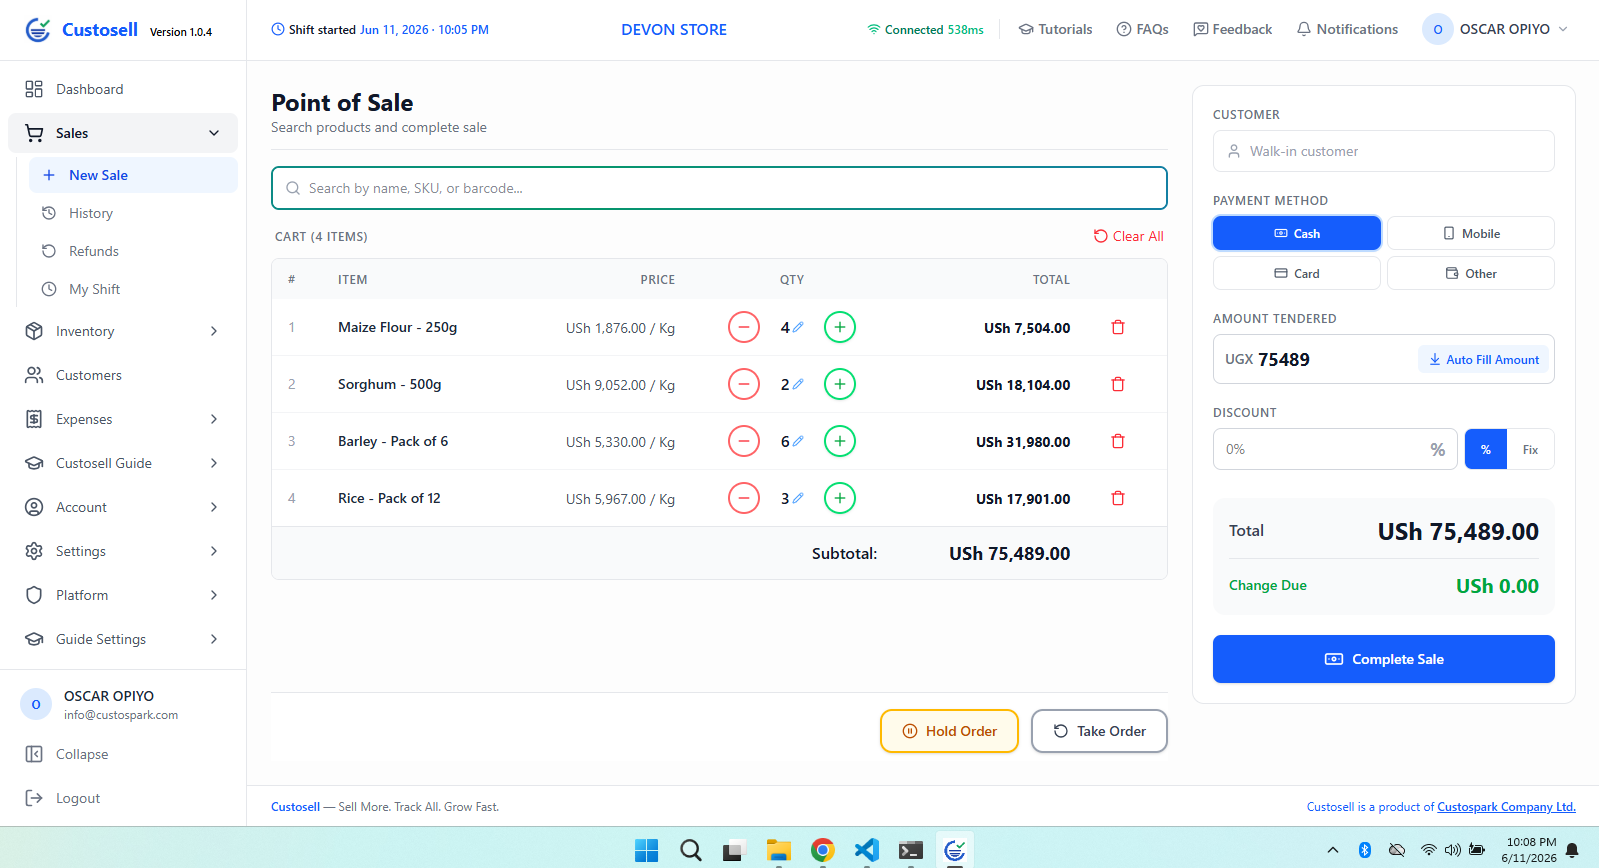
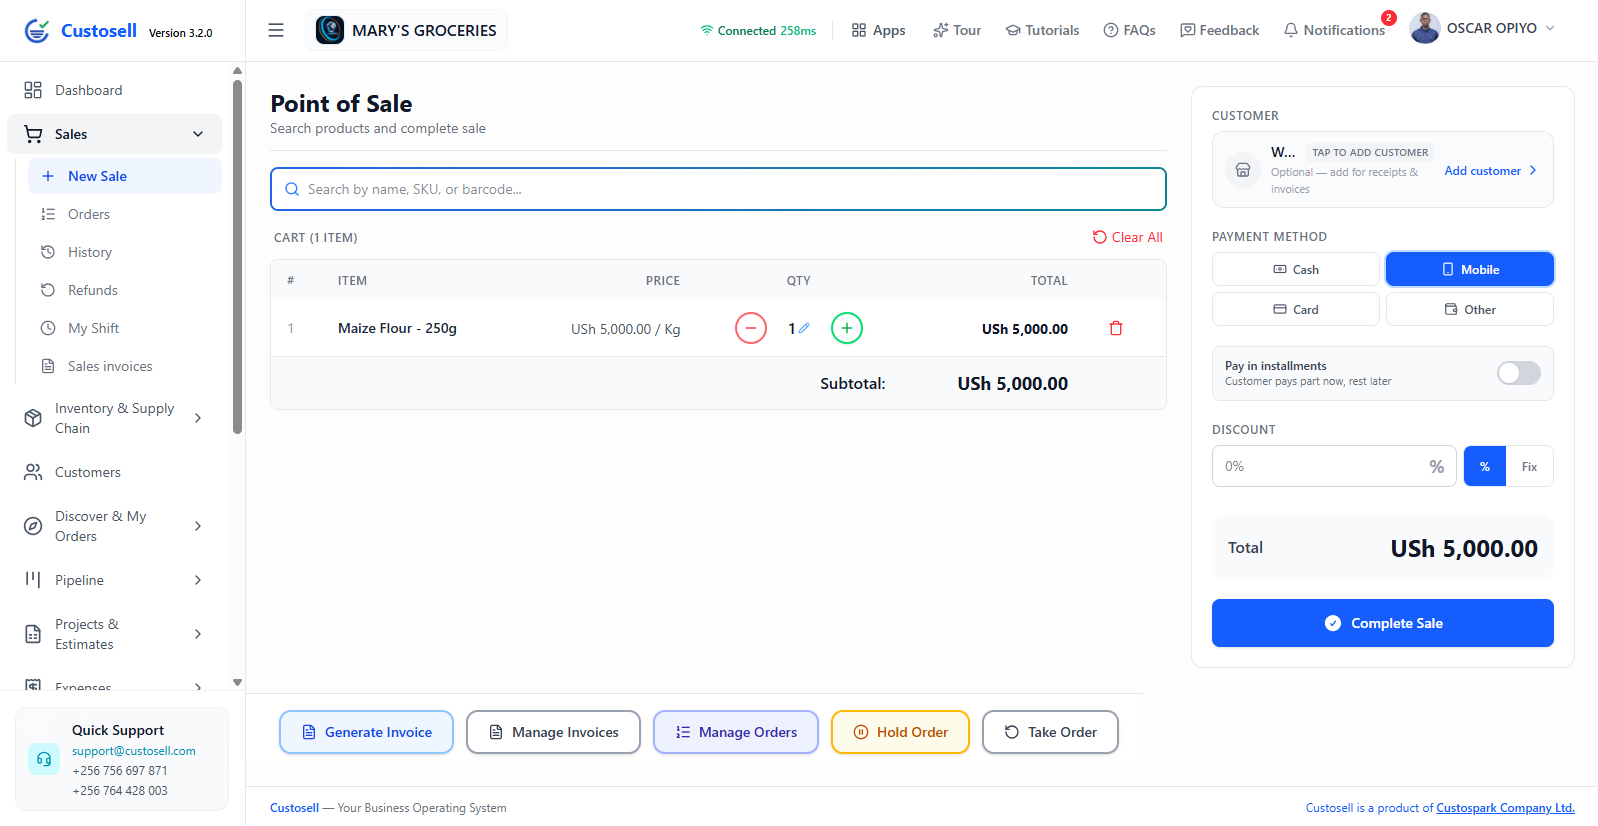
Expand Custosell description from 5 POS features to full 12-module Business OS with new screenshots

diff --git a/src/sections/CustosellProduct.tsx b/src/sections/CustosellProduct.tsx
@@ -1,42 +1,94 @@
 import { Button } from "@/components/Button";
-import { ArrowRight, Home, LayoutDashboard, Package, TrendingUp, Users } from "lucide-react";
+import {
+  ArrowRight, LayoutDashboard, ShoppingCart, Compass, Package, Kanban,
+  FileText, BookOpen, LineChart, IdCard, FolderKanban, Files, Users,
+} from "lucide-react";
 import custosellLogo from "../shared/images/custosell/custosell-logo.png";
 import homeImg from "../shared/images/custosell/custosell-home.png";
-import dashboardImg from "../shared/images/custosell/real_time_dashboard.png";
-import inventoryImg from "../shared/images/custosell/smart_inventory.png";
 import salesImg from "../shared/images/custosell/faster_sales.png";
+import storefrontImg from "../shared/images/custosell/storefront.png";
+import inventoryImg from "../shared/images/custosell/smart_inventory.png";
+import pipelineImg from "../shared/images/custosell/pipeline_crm.png";
+import invoicingImg from "../shared/images/custosell/invoicing.png";
+import accountingImg from "../shared/images/custosell/accounting.png";
+import forecastingImg from "../shared/images/custosell/forecasting.png";
+import hrImg from "../shared/images/custosell/hr_payroll.png";
+import projectsImg from "../shared/images/custosell/project_management.png";
+import documentsImg from "../shared/images/custosell/document_management.png";
 import customersImg from "../shared/images/custosell/customer_insights.png";
 
 const features = [
   {
     img: homeImg,
-    icon: Home,
+    icon: LayoutDashboard,
     title: "Your Business, One Screen Away",
     desc: "Sales, inventory, customers, and insights — all waiting the moment you log in. Custosell's home screen puts your daily snapshot front and center so you can sell more, track everything, and grow faster without digging through menus or waiting on reports.",
   },
   {
-    img: dashboardImg,
-    icon: LayoutDashboard,
-    title: "Real-time Dashboard",
-    desc: "See your entire business at a glance. Custosell's live dashboard lets you track sales, monitor trends, and make data-driven decisions in real-time. Know exactly how your business is performing, any time of day, from anywhere.",
+    img: salesImg,
+    icon: ShoppingCart,
+    title: "Point of Sale",
+    desc: "Process transactions in seconds — online or offline. Scan items, split bills, take multiple payment methods, and print receipts. Your shift data syncs automatically when you reconnect.",
+  },
+  {
+    img: storefrontImg,
+    icon: Compass,
+    title: "E-commerce Storefront",
+    desc: "Share a public shop link so customers browse your catalog, save wishlists, and place order requests — all while stock stays tied to your real-time inventory. Turn your physical store into an online storefront instantly.",
   },
   {
     img: inventoryImg,
     icon: Package,
-    title: "Smart Inventory",
-    desc: "Never run out of stock again. Custosell lets you track inventory in real-time, set low-stock alerts, and manage suppliers all from one place. Know what's moving, what's not, and exactly when to reorder — so you can keep your shelves full and your customers happy.",
+    title: "Inventory & Supply Chain",
+    desc: "Track stock in real time, set low-stock alerts, manage suppliers, create purchase orders, and source from other businesses through the built-in marketplace. Never run out of stock again.",
   },
   {
-    img: salesImg,
-    icon: TrendingUp,
-    title: "Fast Sales",
-    desc: "Process transactions in seconds, not minutes. Whether you're online or offline, Custosell's point-of-sale is built for speed. Scan items, take payments, and print receipts — all while your data syncs seamlessly in the background when you're back online.",
+    img: pipelineImg,
+    icon: Kanban,
+    title: "Sales Pipeline (CRM)",
+    desc: "Move leads across visual boards, assign tasks, track deals, and never let an opportunity slip. Built for sales teams that need to close more — from first contact to signed deal.",
+  },
+  {
+    img: invoicingImg,
+    icon: FileText,
+    title: "Invoicing & Payments",
+    desc: "Create invoices, email them as PDFs, record payments, and track what customers owe you. Works for both sales invoices and supplier bills — everything in one place.",
+  },
+  {
+    img: accountingImg,
+    icon: BookOpen,
+    title: "Accounting",
+    desc: "Financial statements, chart of accounts, journal entries, fixed assets — books you can trust, ready when you need them. No accounting degree required.",
+  },
+  {
+    img: forecastingImg,
+    icon: LineChart,
+    title: "Financial Forecasting",
+    desc: "Cash flow outlook, budget planning, KPI tracking, and scenario modelling. Plan ahead with confidence before you commit to that next big decision.",
+  },
+  {
+    img: hrImg,
+    icon: IdCard,
+    title: "HR & Payroll",
+    desc: "Track attendance, leave, payroll, and performance. Manage people, departments, company assets, and control who has access to what — all without spreadsheet stress.",
+  },
+  {
+    img: projectsImg,
+    icon: FolderKanban,
+    title: "Project Management",
+    desc: "Quote, deliver, and get paid. Run estimates and projects from first ask to done — with boards, tasks, and team collaboration that keeps everyone aligned.",
+  },
+  {
+    img: documentsImg,
+    icon: Files,
+    title: "Document Management",
+    desc: "Keep contracts, invoices, and records organised. Find any file fast with cabinets, tags, and team access controls — no more digging through email attachments.",
   },
   {
     img: customersImg,
     icon: Users,
     title: "Customer Insights",
-    desc: "Know your customers beyond their names. Custosell helps you track purchase history, manage loyalty programs, and understand buying patterns to serve them better. Build relationships that keep them coming back.",
+    desc: "Know your customers beyond their names. Track purchase history, manage loyalty programs, and understand buying patterns to serve them better. Build relationships that keep them coming back.",
   },
 ];
 
@@ -53,7 +105,10 @@ export function CustosellProduct() {
           </div>
         </div>
         <p className="text-white/80 text-body-lg leading-relaxed">
-          Custosell is a point-of-sale and business management platform built for retail businesses that need to keep selling — even when the internet goes down. Sales, inventory, customers, and insights all work offline and sync when you are back online. No lost transactions. No missed data. No stopping.
+          Custosell is your business operating system — not just a POS. Point of Sale, E-commerce Storefront,
+          Inventory & Supply Chain, Accounting, HR & Payroll, Invoicing, Expenses, Project Management,
+          Sales Pipeline (CRM), Financial Forecasting, and Document Management — all in one connected system
+          that works with or without the internet. No more juggling separate apps.
         </p>
       </div>
 

diff --git a/src/lib/constants.ts b/src/lib/constants.ts
@@ -97,8 +97,8 @@ export const testimonials: Testimonial[] = [
 export const products: AppProduct[] = [
   {
     name: "Custosell",
-    tagline: "Offline-first POS that never stops selling.",
-    description: "A powerful point-of-sale system designed for retail businesses with offline-first capabilities.",
+    tagline: "Your Business Operating System.",
+    description: "Point of Sale, E-commerce Storefront, Inventory & Supply Chain, Accounting, HR & Payroll, Invoicing, Expenses, Project Management, Sales Pipeline (CRM), Financial Forecasting, and Document Management — all in one connected system that works with or without the internet.",
     slug: "custosell",
   },
   {

diff --git a/index.html b/index.html
@@ -39,7 +39,7 @@
         {
           "@type": "SoftwareApplication",
           "name": "Custosell",
-          "description": "Offline-first POS and business management platform for retail businesses.",
+          "description": "Point of Sale, E-commerce Storefront, Inventory & Supply Chain, Accounting, HR & Payroll, Invoicing, Expenses, Project Management, Sales Pipeline (CRM), Financial Forecasting, and Document Management — all in one connected system.",
           "url": "https://www.custosell.com"
         },
         {
